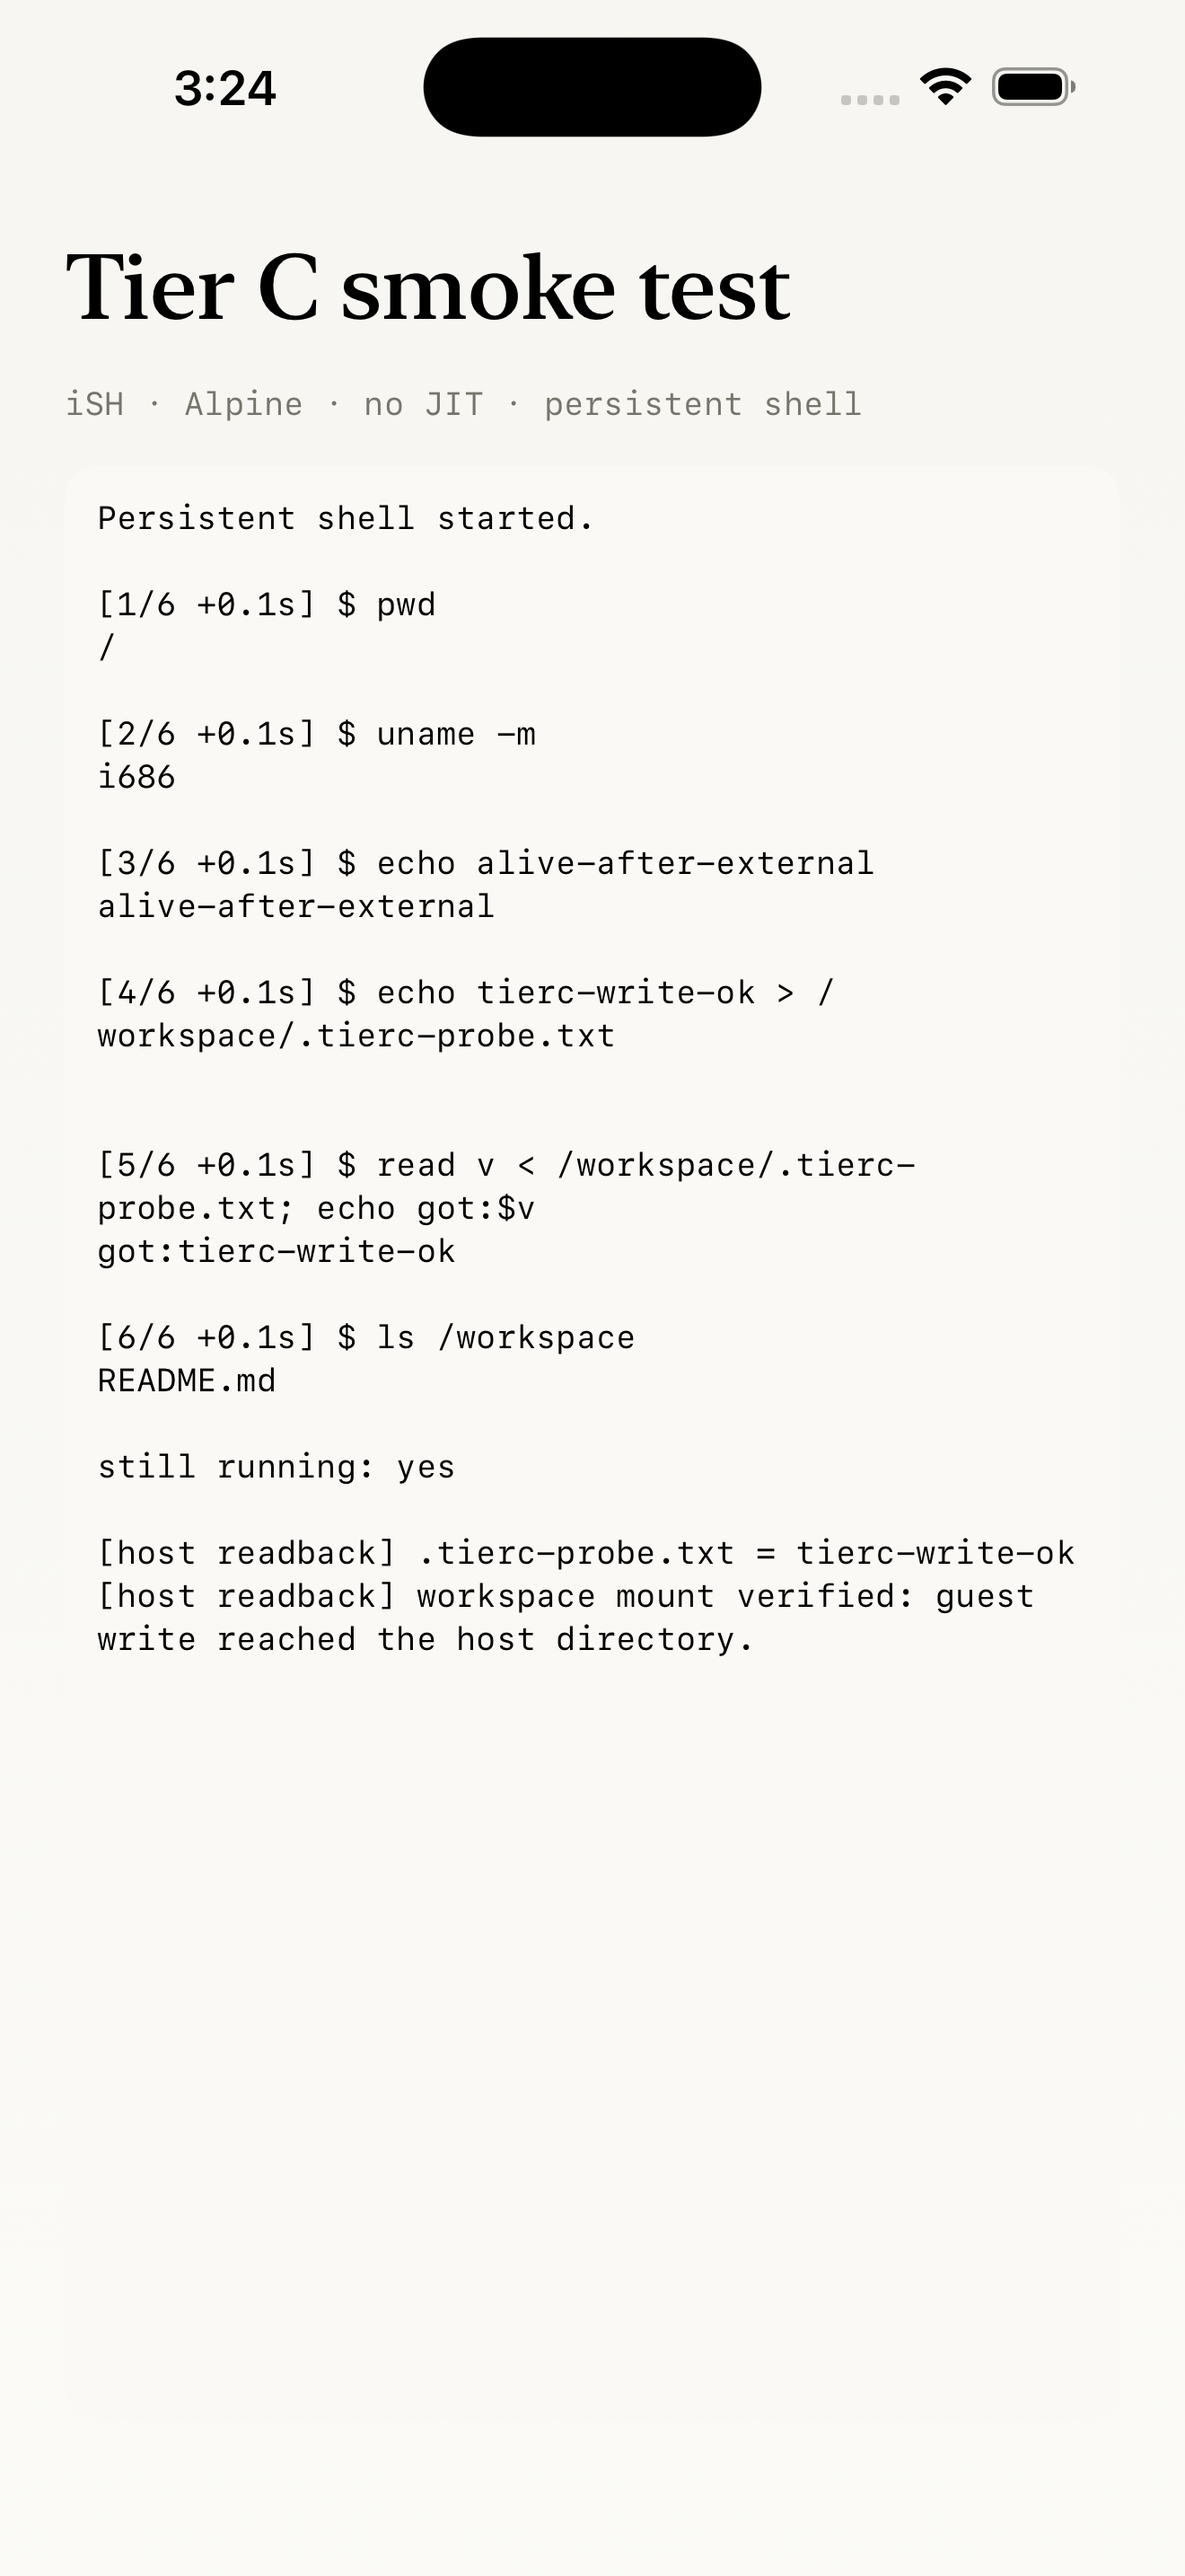
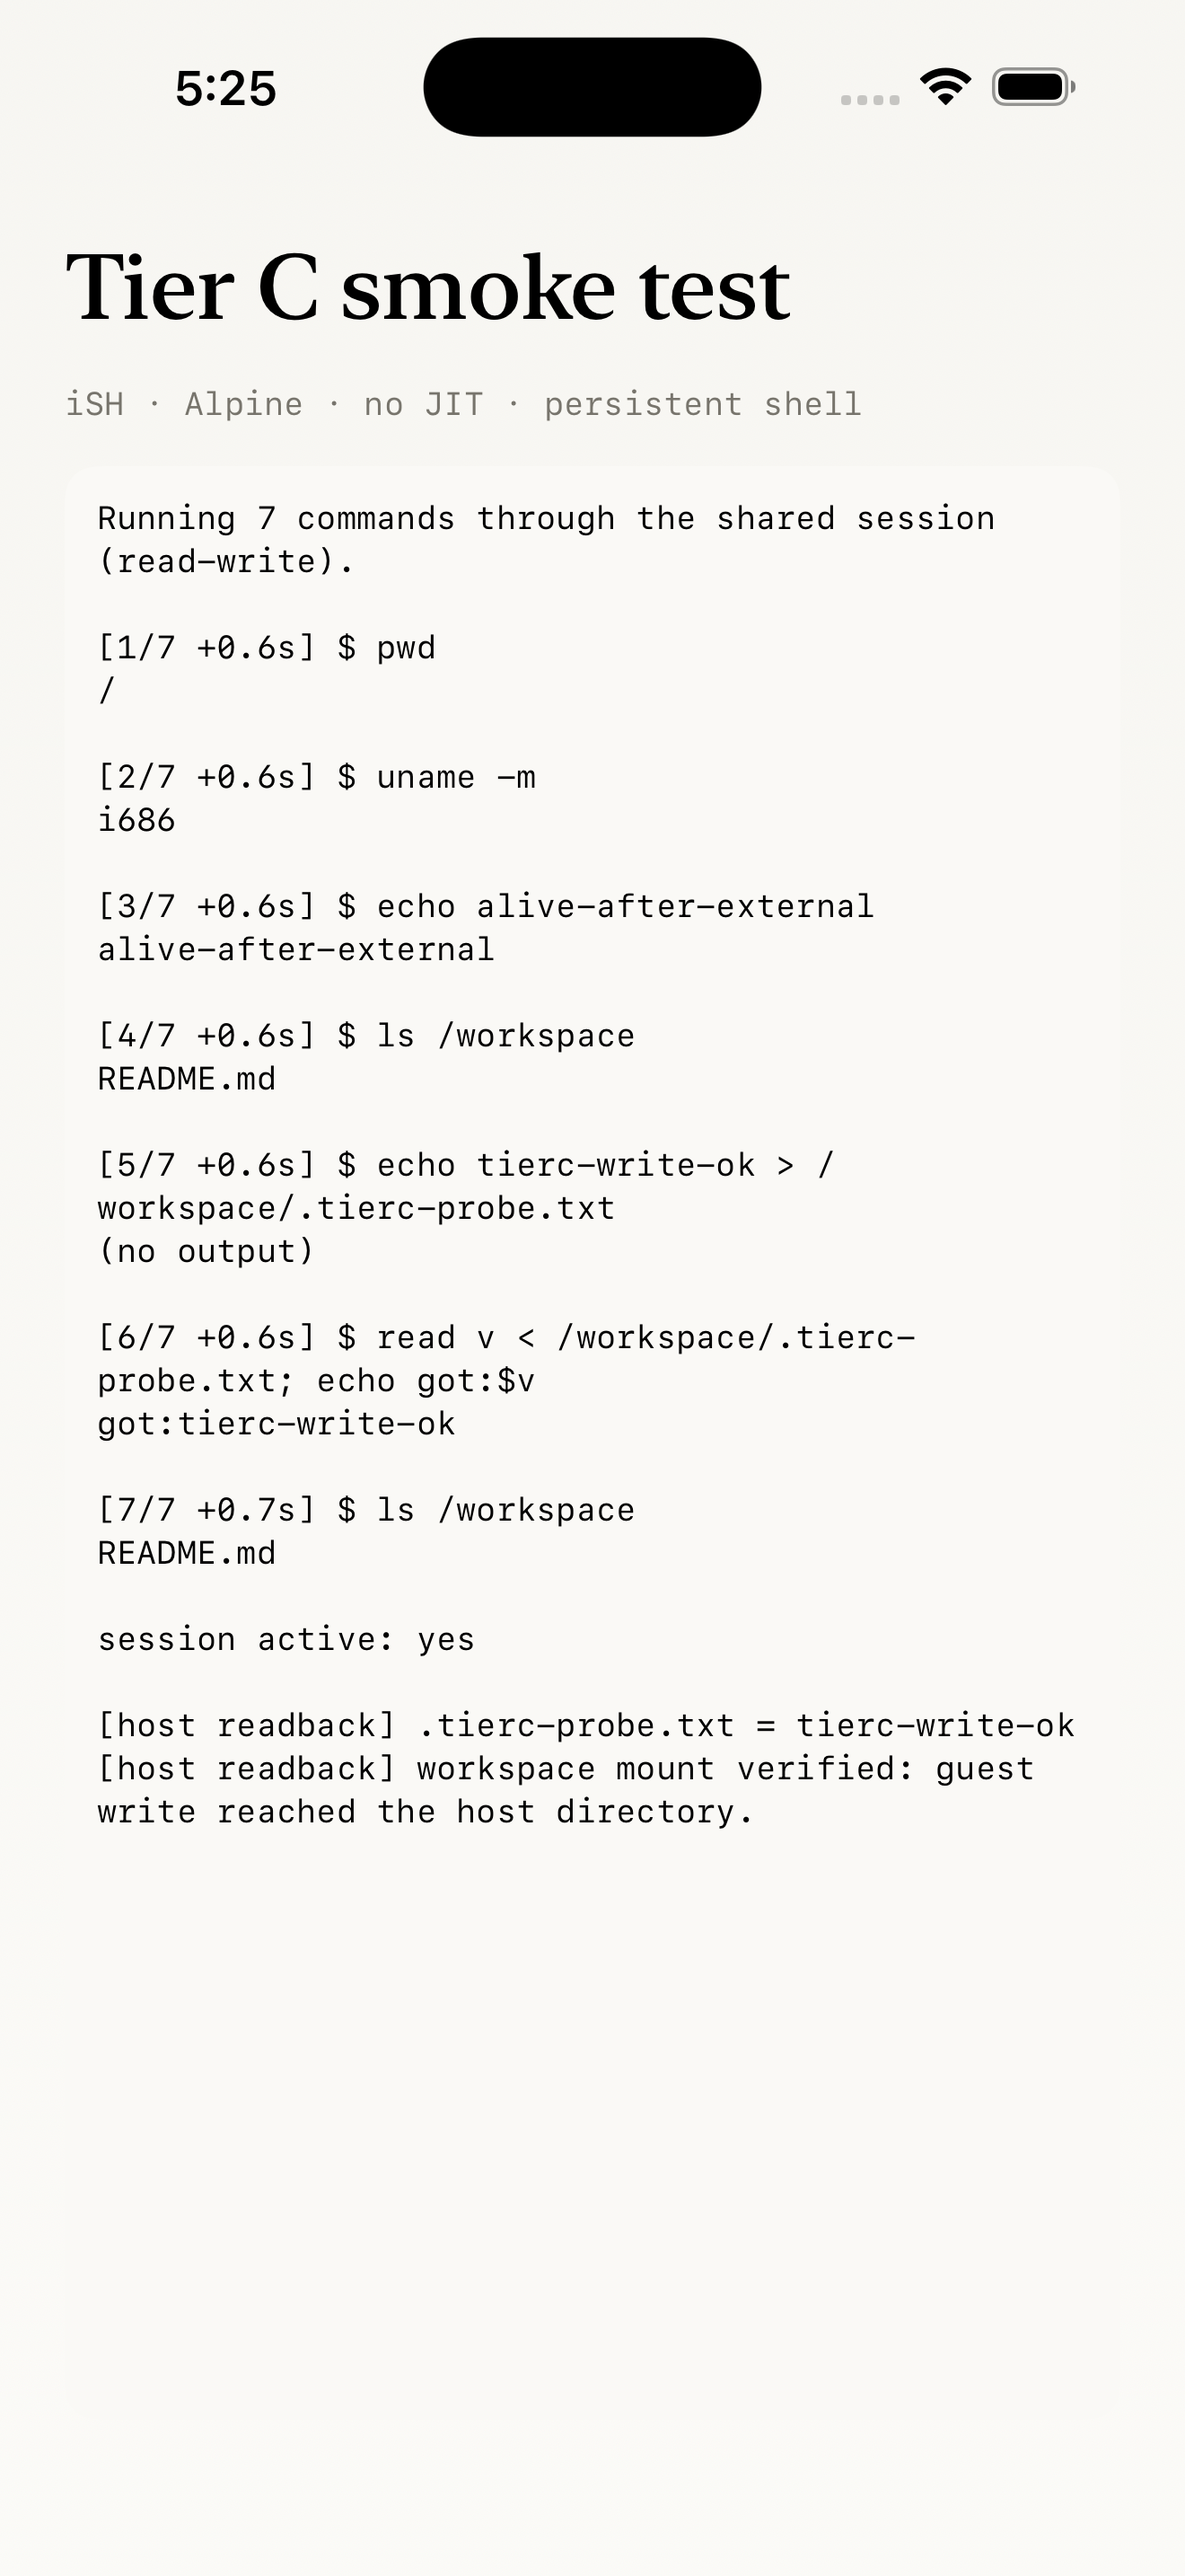
docs: archive the final read-only evidence (build 98)
Replace the interim screenshots with the build where the command set
matches the mount mode, so the read-only screenshot shows five relevant
checks instead of inheriting a failing write/read pair.

diff --git a/docs/HANDOFF.md b/docs/HANDOFF.md
@@ -21,9 +21,9 @@ cat docs/TIER-C.md
 当前仓库：<https://github.com/zqlnys/PocketDSH>（**public**）
 当前分支：`main`
 当前源码头：见 `git log --oneline -1`
-最新已验证构建 commit：`77ebd31`（tier-c: verify the read-only mount at runtime）
-最新构建 run：<https://github.com/zqlnys/PocketDSH/actions/runs/43806552415>
-最新 artifact：`pocketdsh-ios-97`
+最新已验证构建 commit：`928c1a8`（tier-c: show only the checks that apply to the current mount mode）
+最新构建 run：<https://github.com/zqlnys/PocketDSH/actions/runs/43808219268>
+最新 artifact：`pocketdsh-ios-98`
 最新 IPA 本地路径：`/root/dsh/PocketDSH-builds/latest/PocketDSH-unsigned.ipa`
 
 最新 IPA：
@@ -493,7 +493,7 @@ examples/workspace-inspector.dshplugin/
    - 加了 `readonly_realfs` 包装层：写模式 open 与全部路径级写操作返回 `EROFS`；
    - 开关 `LinuxRuntime.workspaceReadOnly`，变化时自动重建会话；
    - **默认值待产品决定**：读写让 guest 构建工具可用但绕过工作区备份，只读更安全；
-   - 验证结果：只读下两次写命令均返回 `Read-only file system`，`ls` 正常，宿主确认无文件产生（run 43806552415）。
+   - 验证结果：只读下写命令返回 `Read-only file system`，`ls` 正常，宿主确认无文件产生，会话在被拒后仍然存活（run 43808219268）。
 
 4. **真实 Key 端到端**
    - 用用户 Key 验证 DeepSeek 工具调用；
@@ -556,4 +556,4 @@ examples/workspace-inspector.dshplugin/
 
 ## 15. 一句话状态
 
-**PocketDSH 是一个可构建、可运行的原生 iOS 本地 Agent App。Tier C 已经完整可用：项目目录通过 realfs 挂载在 `/workspace`（默认读写，只读能力已就绪待决定默认值），`run_linux` 复用同一个持久 shell（每条命令 ~0.4s），Tier 状态只在会话真的在跑时才报告 Tier C。未完成：只读默认值的产品决定、真机验证、GPLv3 分发决策、上游 DSH/Cordis 插件兼容。最新可用构建 `pocketdsh-ios-97`（run 43806552415）。**
+**PocketDSH 是一个可构建、可运行的原生 iOS 本地 Agent App。Tier C 已经完整可用：项目目录通过 realfs 挂载在 `/workspace`（默认读写，只读能力已就绪待决定默认值），`run_linux` 复用同一个持久 shell（每条命令 ~0.4s），Tier 状态只在会话真的在跑时才报告 Tier C。未完成：只读默认值的产品决定、真机验证、GPLv3 分发决策、上游 DSH/Cordis 插件兼容。最新可用构建 `pocketdsh-ios-98`（run 43808219268）。**
